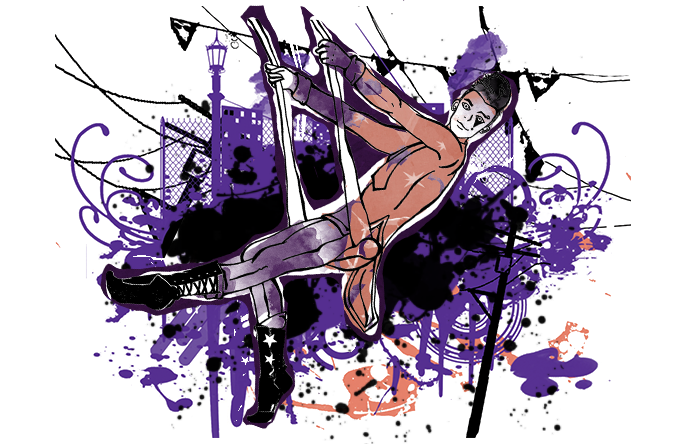
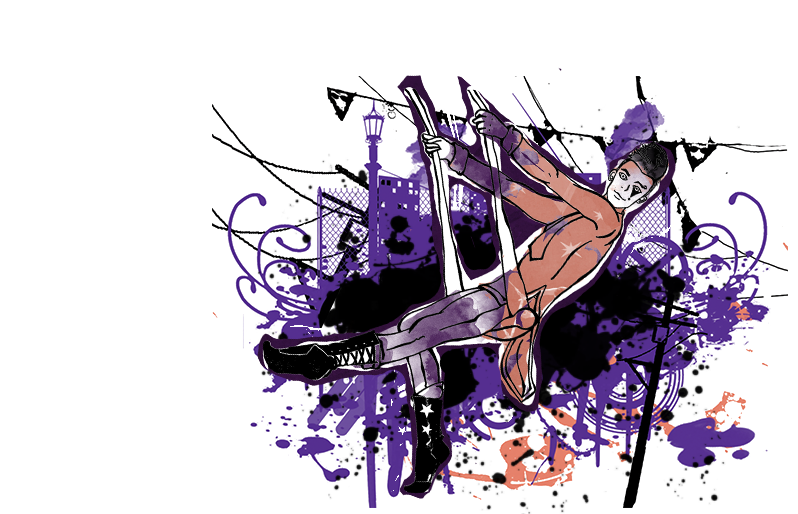
sectors
extr urb ker

diff --git a/expermain.html b/expermain.html
@@ -168,8 +168,8 @@
         
         
 
-     <!-- BLOG START -->
-    <!--  onepage -->
+     <!-- SECTORES START -->
+    <!--  kermesse -->
  <div id="ticket">
       <div class="container-fluid">
         <div class="row">
@@ -178,7 +178,7 @@
             <div class="feature-thumb wow fadeIn" data-wow-delay="1s">
              <div class="parent">
              <div class="child1">
-              <img class="infophoto" src="novedades/blog1.png" alt="">
+              <img class="infophoto" src="experiencia/trapecio.png" alt="">
               </div>
               </div>
             </div>
@@ -203,10 +203,10 @@
         </div>
       </div>
     </div>
-    <!-- end onepage -->
+    <!-- ikermesse -->
 
 
-    <!-- twopage -->
+    <!-- urbano-->
     <div id="tickets">
       <div class="container-fluid">
         <div class="row">
@@ -229,7 +229,7 @@
             <div class="feature-thumb wow fadeIn" data-wow-delay="1s">
              <div class="parent">
              <div class="child1">
-              <img class="infophoto" src="novedades/blog2.png" alt="">
+              <img class="infophoto" src="experiencia/urbana.png" alt="">
               </div>
               </div>
             </div>
@@ -237,10 +237,10 @@
         </div>
       </div>
     </div>
-    <!-- twopage ends -->
+    <!-- urbano -->
 
 
-<!-- threepage -->
+<!-- extremo -->
     <div id="ticket">
       <div class="container-fluid">
         <div class="row">
@@ -249,7 +249,7 @@
             <div class="feature-thumb wow fadeIn" data-wow-delay="1s">
              <div class="parent">
              <div class="child1">
-              <img class="infophoto" src="novedades/blog3.png" alt="">
+              <img class="infophoto" src="experiencia/extrema.png" alt="">
               </div>
               </div>
             </div>
@@ -274,7 +274,7 @@
         </div>
       </div>
     </div>
-    <!-- threepage ends -->
+    <!-- extremo -->
 
 <div class="nuestroamigodivider"></div>
 
